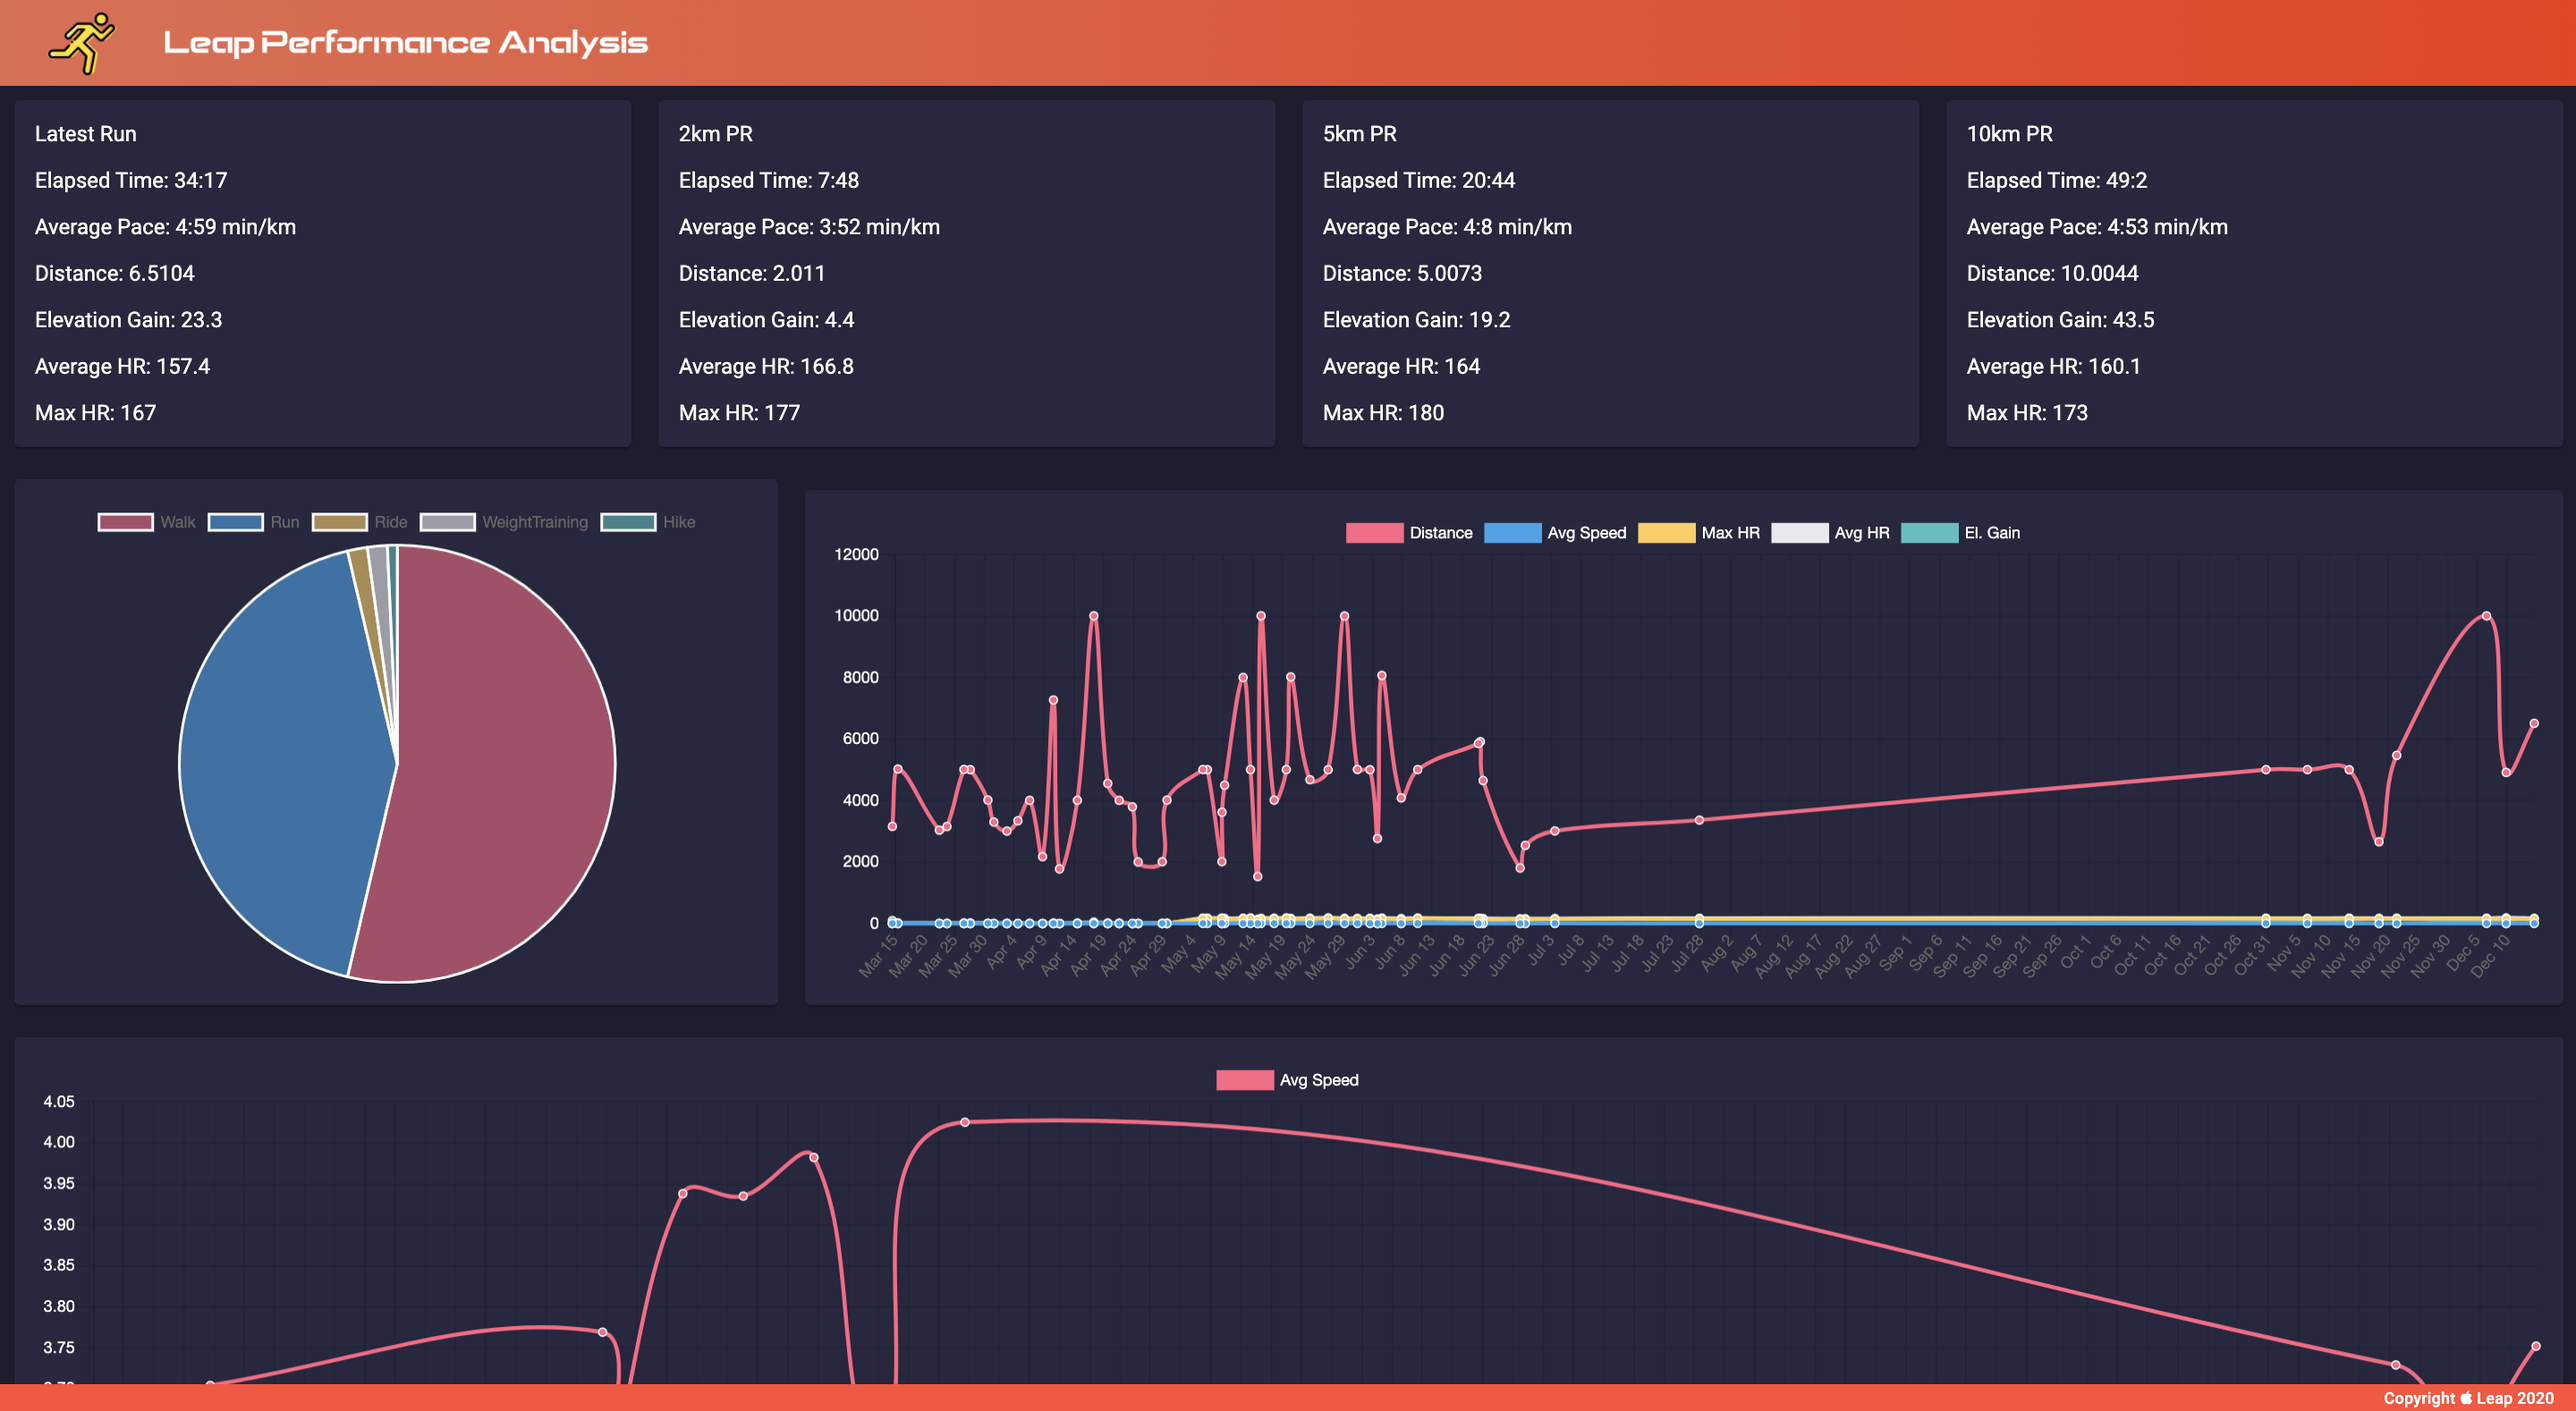
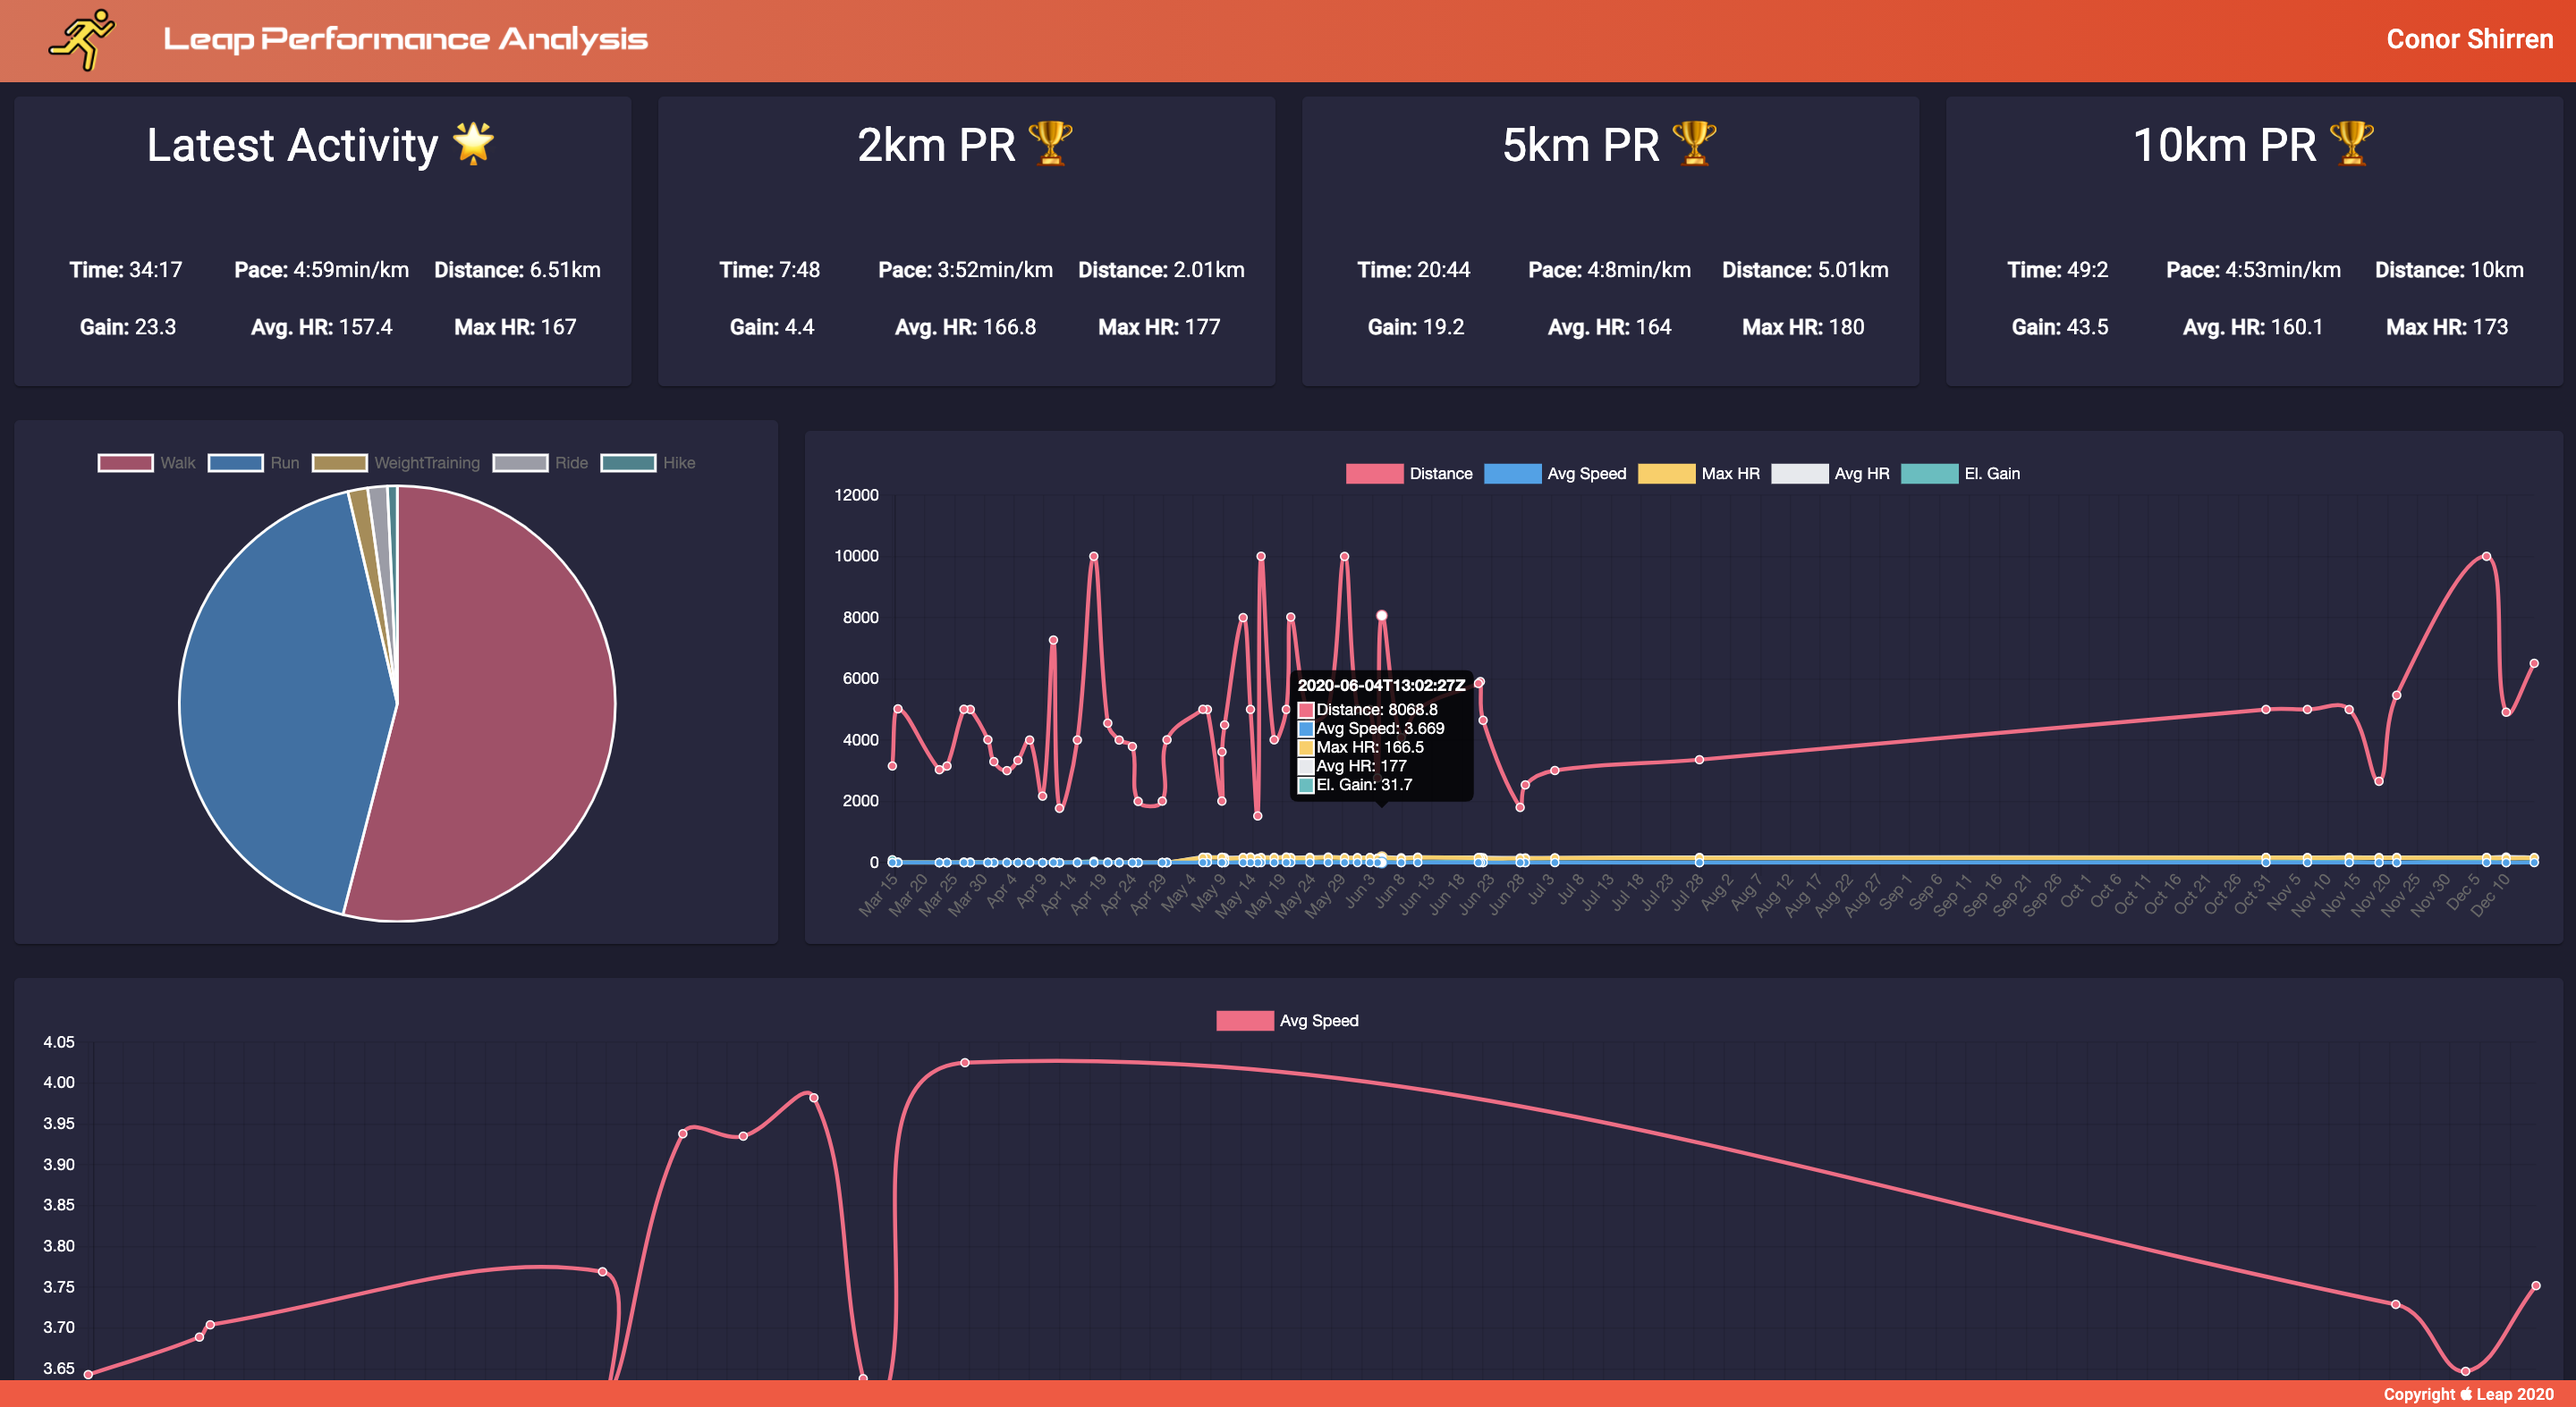
[fix] Updates to Dashboard
# Changed PR Mat Cards
# Updated Readme

diff --git a/client/src/app/routes/dashboard/dashboard.component.html b/client/src/app/routes/dashboard/dashboard.component.html
@@ -19,72 +19,111 @@
     </mat-card>
 </div>
 
-<div *ngIf="this.loggedIn">
+<div style="text-align: center" *ngIf="this.loggedIn">
     <div fxflex fxLayout="column" fxLayoutAlign="center space-between" fxLayoutGap="20px" style="margin-bottom: 5px">
         <div fxFlex="50">
-            <div
-                fxflex
-                fxLayout="row"
-                fxLayoutAlign="start end"
-                fxLayoutGap="20px"
-                style="margin-bottom: 5px"
-            >
+            <div fxflex fxLayout="row" fxLayoutAlign="start end" fxLayoutGap="20px" style="margin-bottom: 5px">
                 <div fxFlex="25">
                     <mat-card>
-                        
-                        <p>Latest Run </p>
-                        <p>Elapsed Time: {{floor(this.latestRun[3])}}:{{this.latestRun[3]%60}} </p>
-                        <p>Average Pace: {{pace(this.latestRun[4])}} min/km </p>
-                        <p>Distance: {{this.latestRun[2]/1000}}</p>
-                        <p>Elevation Gain: {{this.latestRun[5]}} </p>
-                        <p>Average HR: {{this.latestRun[8]}} </p>
-                        <p>Max HR: {{this.latestRun[7]}} </p>
+                        <h2 class="mat-display-1">Latest Activity 🌟</h2>
+                        <div fxflex fxLayout="column" fxLayoutAlign="center space-between" fxLayoutGap="25px">
+                            <div fxFlex="50">
+                                <div fxflex fxLayout="row" fxLayoutAlign="center space-between" fxLayoutGap="10px">
+                                    <div fxFlex="33">
+                                        <b>Time: </b>{{ floor(this.latestRun[3]) }}:{{ this.latestRun[3] % 60 }}
+                                    </div>
+                                    <div fxFlex="33"><b>Pace: </b>{{ pace(this.latestRun[4]) }}min/km</div>
+                                    <div fxFlex="33"><b>Distance: </b> {{ round(this.latestRun[2] / 1000)}}km</div>
+                                </div>
+                            </div>
+                            <div fxFlex="50">
+                                <div fxflex fxLayout="row" fxLayoutAlign="center space-between" fxLayoutGap="5px">
+                                    <div fxFlex="33"><b>Gain: </b> {{ this.latestRun[5] }}</div>
+                                    <div fxFlex="33"><b>Avg. HR: </b> {{ this.latestRun[8] }}</div>
+                                    <div fxFlex="33"><b>Max HR: </b> {{ this.latestRun[7] }}</div>
+                                </div>
+                            </div>
+                        </div>
+                        <br>
                     </mat-card>
                 </div>
                 <div fxFlex="25">
                     <mat-card>
-                        <p>2km PR </p>
-                        <p>Elapsed Time: {{floor(this.pr2k[3])}}:{{this.pr2k[3]%60}}</p>
-                        <p>Average Pace: {{pace(this.pr2k[4])}} min/km </p>
-                        <p>Distance: {{this.pr2k[2]/1000}}</p>
-                        <p>Elevation Gain: {{this.pr2k[5]}} </p>
-                        <p>Average HR: {{this.pr2k[8]}} </p>
-                        <p>Max HR: {{this.pr2k[7]}} </p>
+                        <h2 class="mat-display-1">2km PR 🏆</h2>
+                        <div fxflex fxLayout="column" fxLayoutAlign="center space-between" fxLayoutGap="25px">
+                            <div fxFlex="50">
+                                <div fxflex fxLayout="row" fxLayoutAlign="center space-between" fxLayoutGap="10px">
+                                    <div fxFlex="33">
+                                        <b>Time: </b>{{ floor(this.pr2k[3]) }}:{{ this.pr2k[3] % 60 }}
+                                    </div>
+                                    <div fxFlex="33"><b>Pace: </b>{{ pace(this.pr2k[4]) }}min/km</div>
+                                    <div fxFlex="33"><b>Distance: </b> {{ round(this.pr2k[2] / 1000)}}km</div>
+                                </div>
+                            </div>
+                            <div fxFlex="50">
+                                <div fxflex fxLayout="row" fxLayoutAlign="center space-between" fxLayoutGap="5px">
+                                    <div fxFlex="33"><b>Gain: </b> {{ this.pr2k[5] }}</div>
+                                    <div fxFlex="33"><b>Avg. HR: </b> {{ this.pr2k[8] }}</div>
+                                    <div fxFlex="33"><b>Max HR: </b> {{ this.pr2k[7] }}</div>
+                                </div>
+                            </div>
+                        </div>
+                        <br>
                     </mat-card>
                 </div>
                 <div fxFlex="25">
                     <mat-card>
-                        <p>5km PR </p>
-                        <p>Elapsed Time: {{floor(this.pr5k[3])}}:{{this.pr5k[3]%60}} </p>
-                        <p>Average Pace: {{pace(this.pr5k[4])}} min/km </p>
-                        <p>Distance: {{this.pr5k[2]/1000}}</p>
-                        <p>Elevation Gain: {{this.pr5k[5]}} </p>
-                        <p>Average HR: {{this.pr5k[8]}} </p>
-                        <p>Max HR: {{this.pr5k[7]}} </p>
+                        <h2 class="mat-display-1">5km PR 🏆</h2>
+                        <div fxflex fxLayout="column" fxLayoutAlign="center space-between" fxLayoutGap="25px">
+                            <div fxFlex="50">
+                                <div fxflex fxLayout="row" fxLayoutAlign="center space-between" fxLayoutGap="10px">
+                                    <div fxFlex="33">
+                                        <b>Time: </b>{{ floor(this.pr5k[3]) }}:{{ this.pr5k[3] % 60 }}
+                                    </div>
+                                    <div fxFlex="33"><b>Pace: </b>{{ pace(this.pr5k[4]) }}min/km</div>
+                                    <div fxFlex="33"><b>Distance: </b> {{ round(this.pr5k[2] / 1000)}}km</div>
+                                </div>
+                            </div>
+                            <div fxFlex="50">
+                                <div fxflex fxLayout="row" fxLayoutAlign="center space-between" fxLayoutGap="5px">
+                                    <div fxFlex="33"><b>Gain: </b> {{ this.pr5k[5] }}</div>
+                                    <div fxFlex="33"><b>Avg. HR: </b> {{ this.pr5k[8] }}</div>
+                                    <div fxFlex="33"><b>Max HR: </b> {{ this.pr5k[7] }}</div>
+                                </div>
+                            </div>
+                        </div>
+                        <br>
                     </mat-card>
                 </div>
                 <div fxFlex="25">
                     <mat-card>
-                        <p>10km PR </p>
-                        <p>Elapsed Time: {{floor(this.pr10k[3])}}:{{this.pr10k[3]%60}}</p>
-                        <p>Average Pace: {{pace(this.pr10k[4])}} min/km </p>
-                        <p>Distance: {{this.pr10k[2]/1000}}</p>
-                        <p>Elevation Gain: {{this.pr10k[5]}} </p>
-                        <p>Average HR: {{this.pr10k[8]}} </p>
-                        <p>Max HR: {{this.pr10k[7]}} </p>
+                        <h2 class="mat-display-1">10km PR 🏆</h2>
+                        <div fxflex fxLayout="column" fxLayoutAlign="center space-between" fxLayoutGap="25px">
+                            <div fxFlex="50">
+                                <div fxflex fxLayout="row" fxLayoutAlign="center space-between" fxLayoutGap="10px">
+                                    <div fxFlex="33">
+                                        <b>Time: </b>{{ floor(this.pr10k[3]) }}:{{ this.pr10k[3] % 60 }}
+                                    </div>
+                                    <div fxFlex="33"><b>Pace: </b>{{ pace(this.pr10k[4]) }}min/km</div>
+                                    <div fxFlex="33"><b>Distance: </b> {{ round(this.pr10k[2] / 1000)}}km</div>
+                                </div>
+                            </div>
+                            <div fxFlex="50">
+                                <div fxflex fxLayout="row" fxLayoutAlign="center space-between" fxLayoutGap="5px">
+                                    <div fxFlex="33"><b>Gain: </b> {{ this.pr10k[5] }}</div>
+                                    <div fxFlex="33"><b>Avg. HR: </b> {{ this.pr10k[8] }}</div>
+                                    <div fxFlex="33"><b>Max HR: </b> {{ this.pr10k[7] }}</div>
+                                </div>
+                            </div>
+                        </div>
+                        <br>
                     </mat-card>
                 </div>
             </div>
         </div>
 
         <div fxFlex="30">
-            <div
-                fxflex
-                fxLayout="row"
-                fxLayoutAlign="start end"
-                fxLayoutGap="20px"
-                style="margin-bottom: 5px"
-            >
+            <div fxflex fxLayout="row" fxLayoutAlign="start end" fxLayoutGap="20px" style="margin-bottom: 5px">
                 <div fxFlex="30">
                     <mat-card>
                         <canvas

diff --git a/client/src/app/shared/components/header/header.component.html b/client/src/app/shared/components/header/header.component.html
@@ -8,6 +8,10 @@
                     <img src="assets/imgs/leaplogo.png" style="padding-left: 20px; max-height: 50px" />
                 </div>
             </div>
+
+            <div fxFlex fxLayout="row" fxLayoutAlign="flex-end">
+                Conor Shirren
+            </div>
         </mat-toolbar-row>
     </mat-toolbar>
 </div>

diff --git a/client/src/app/routes/dashboard/dashboard.component.ts b/client/src/app/routes/dashboard/dashboard.component.ts
@@ -234,5 +234,9 @@ export class DashboardComponent implements OnInit {
         return min + ':' + sec;
     }
 
+    round(num: number): number {
+        return Math.round(num * 100) / 100
+    }
+
     ngOnDestroy() {}
 }
